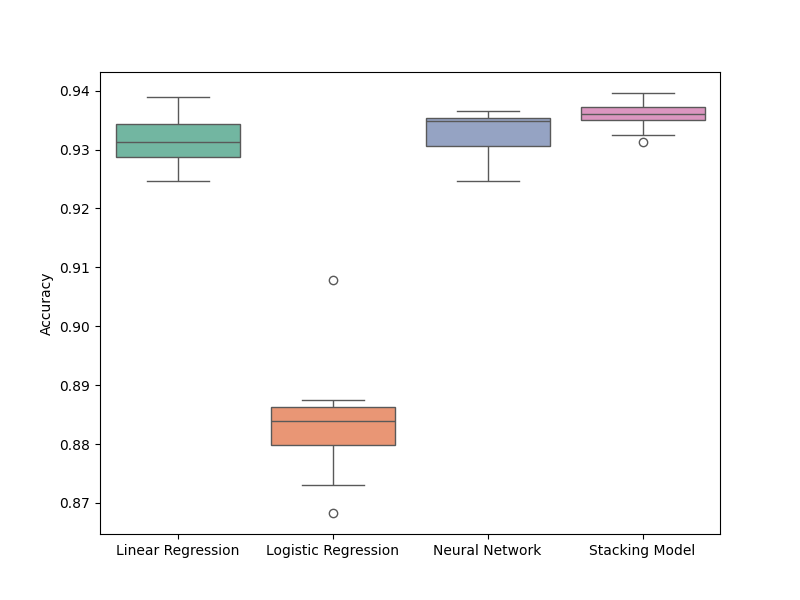
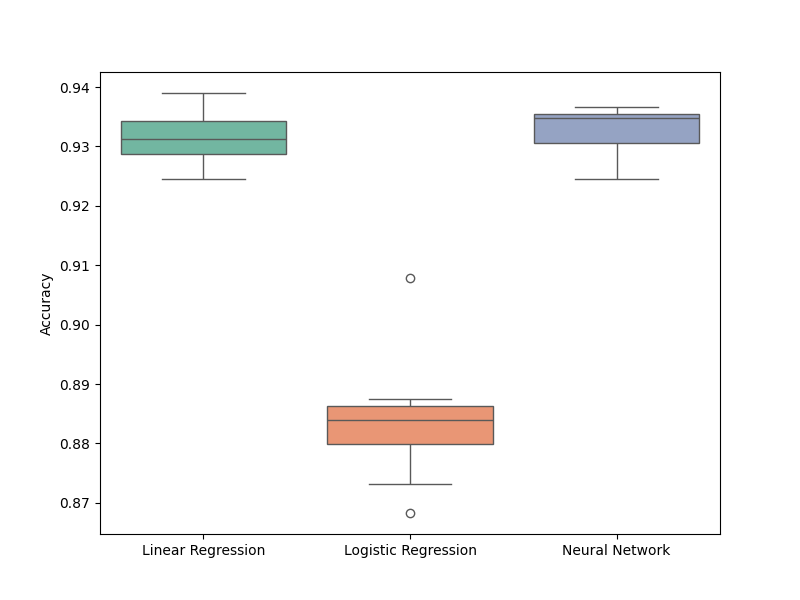
1

diff --git a/src/experiments_visualization_1.py b/src/experiments_visualization_1.py
@@ -1,0 +1,121 @@
+import matplotlib.pyplot as plt
+import seaborn as sns
+
+def plot_comparison_separately(rmse_dict, r2_dict, auc_dict, accuracy_dict):
+    """Visualize the comparison results from multiple models"""
+
+    models = list(rmse_dict.keys())
+    
+    # Plot RMSE comparison
+    plt.figure(figsize=(8, 6))
+    for model in models:
+        if model != 'Logistic Regression':
+            plt.plot(range(len(rmse_dict[model])), rmse_dict[model], label=model)
+    plt.xlabel('Experiment')
+    plt.ylabel('RMSE')
+    plt.legend()
+    plt.grid(True)
+    plt.savefig("experiments/rmse_comparison.png")
+    plt.show()
+
+    # Plot R-squared comparison
+    plt.figure(figsize=(8, 6))
+    for model in models:
+        if model != 'Logistic Regression':
+            plt.plot(range(len(r2_dict[model])), r2_dict[model], label=model)
+    plt.xlabel('Experiment')
+    plt.ylabel('R-squared')
+    plt.legend()
+    plt.grid(True)
+    plt.savefig("experiments/r2_comparison.png")
+    plt.show()
+
+    # Boxplot for AUC
+    plt.figure(figsize=(8, 6))
+    sns.boxplot(data=[auc_dict[model] for model in models], palette="Set2")
+    plt.xticks(range(len(models)), models)
+    plt.ylabel('AUC')
+    plt.savefig("experiments/auc_comparison.png")
+    plt.show()
+
+    # Boxplot for Accuracy
+    plt.figure(figsize=(8, 6))
+    sns.boxplot(data=[accuracy_dict[model] for model in models], palette="Set2")
+    plt.xticks(range(len(models)), models)
+    plt.ylabel('Accuracy')
+    plt.savefig("experiments/accuracy_comparison.png")
+    plt.show()
+
+
+rmse_dict = {
+    'Linear Regression': [2.2162, 2.2040, 2.2589, 2.2209, 2.2246, 2.2191, 2.2222, 2.2988, 2.2994, 2.2393], 
+    'Logistic Regression': [0, 0, 0, 0, 0, 0, 0, 0, 0, 0],
+    'Neural Network': [2.1511, 2.0435, 2.1234, 2.0594, 2.0930, 2.0883, 2.0788, 2.2665, 2.2180, 2.1882],
+}
+
+r2_dict = {
+    'Linear Regression': [0.4944, 0.5093, 0.5399, 0.5335, 0.5183, 0.4954, 0.5132, 0.4860, 0.5002, 0.5265], 
+    'Logistic Regression': [0, 0, 0, 0, 0, 0, 0, 0, 0, 0],
+    'Neural Network': [0.5237, 0.5782, 0.5934, 0.5989, 0.5737, 0.5531, 0.5740, 0.5004, 0.5350, 0.5478],
+}
+
+auc_dict = {
+    'Linear Regression': [0.9371, 0.9515, 0.9538, 0.9499, 0.9429, 0.9555, 0.9469, 0.9508, 0.9482, 0.9473], 
+    'Logistic Regression': [0.8845, 0.8821, 0.8683, 0.8875, 0.9078, 0.8869, 0.8833, 0.8731, 0.8845, 0.8791],
+    'Neural Network': [0.9459, 0.9600, 0.9537, 0.9512, 0.9467, 0.9572, 0.9485, 0.9557, 0.9532, 0.9470],
+}
+
+accuracy_dict = {
+    'Linear Regression': [0.9318, 0.9246, 0.9348, 0.9282, 0.9288, 0.9348, 0.9390, 0.9288, 0.9330, 0.9306], 
+    'Logistic Regression': [0.8845, 0.8821, 0.8683, 0.8875, 0.9078, 0.8869, 0.8833, 0.8731, 0.8845, 0.8791],
+    'Neural Network': [0.9360, 0.9354, 0.9366, 0.9306, 0.9246, 0.9348, 0.9306, 0.9348, 0.9354, 0.9282],
+}
+
+def plot_comparison_combined(rmse_dict, r2_dict, auc_dict, accuracy_dict):
+    """Visualize the comparison results from multiple models in a 2x2 grid"""
+
+    models = list(rmse_dict.keys())
+    
+    fig, axs = plt.subplots(2, 2, figsize=(10, 8), dpi=300)
+
+    # Plot RMSE comparison
+    for model in models:
+        if model != 'Logistic Regression':
+            axs[0, 0].plot(range(len(rmse_dict[model])), rmse_dict[model], label=model)
+    axs[0, 0].set_title('RMSE Comparison', fontsize=10)
+    axs[0, 0].set_xlabel('Experiment', fontsize=8)
+    axs[0, 0].set_ylabel('RMSE', fontsize=8)
+    axs[0, 0].legend(fontsize=6)
+    axs[0, 0].grid(True)
+
+    # Plot R-squared comparison
+    for model in models:
+        if model != 'Logistic Regression':
+            axs[0, 1].plot(range(len(r2_dict[model])), r2_dict[model], label=model)
+    axs[0, 1].set_title('R-squared Comparison', fontsize=10)
+    axs[0, 1].set_xlabel('Experiment', fontsize=8)
+    axs[0, 1].set_ylabel('R-squared', fontsize=8)
+    axs[0, 1].tick_params(axis='both', which='major', labelsize=6)
+    axs[0, 1].tick_params(axis='both', which='minor', labelsize=6)
+    axs[0, 1].legend(fontsize=6)
+    axs[0, 1].grid(True)
+
+    # Boxplot for AUC
+    sns.boxplot(data=[auc_dict[model] for model in models], palette="Set2", ax=axs[1, 0])
+    axs[1, 0].set_title('AUC Comparison', fontsize=10)
+    axs[1, 0].set_xticks(range(len(models)))
+    axs[1, 0].set_xticklabels(models, fontsize=6)
+    axs[1, 0].set_ylabel('AUC', fontsize=8)
+
+    # Boxplot for Accuracy
+    sns.boxplot(data=[accuracy_dict[model] for model in models], palette="Set2", ax=axs[1, 1])
+    axs[1, 1].set_title('Accuracy Comparison', fontsize=10)
+    axs[1, 1].set_xticks(range(len(models)))
+    axs[1, 1].set_xticklabels(models, fontsize=6)
+    axs[1, 1].set_ylabel('Accuracy', fontsize=8)
+
+    plt.tight_layout()
+    plt.savefig("experiments/comparison_combined1.png")
+    plt.show()
+
+plot_comparison_combined(rmse_dict, r2_dict, auc_dict, accuracy_dict)

diff --git a/src/model.py b/src/model.py
@@ -294,7 +294,7 @@ if __name__ == '__main__':
     neural_network_experiment_multiple(X_scaled, y, hidden_layer_sizes=(100,50), learning_rate_init=0.001, n_experiments=10)
 
 
-    # MMFF
-    print("\nRunning Stacking Regression Experiments")
-    stacking_regression_experiment_multiple(X_scaled, y, n_experiments=10)
+    # # MMFF
+    # print("\nRunning Stacking Regression Experiments")
+    # stacking_regression_experiment_multiple(X_scaled, y, n_experiments=10)
 
